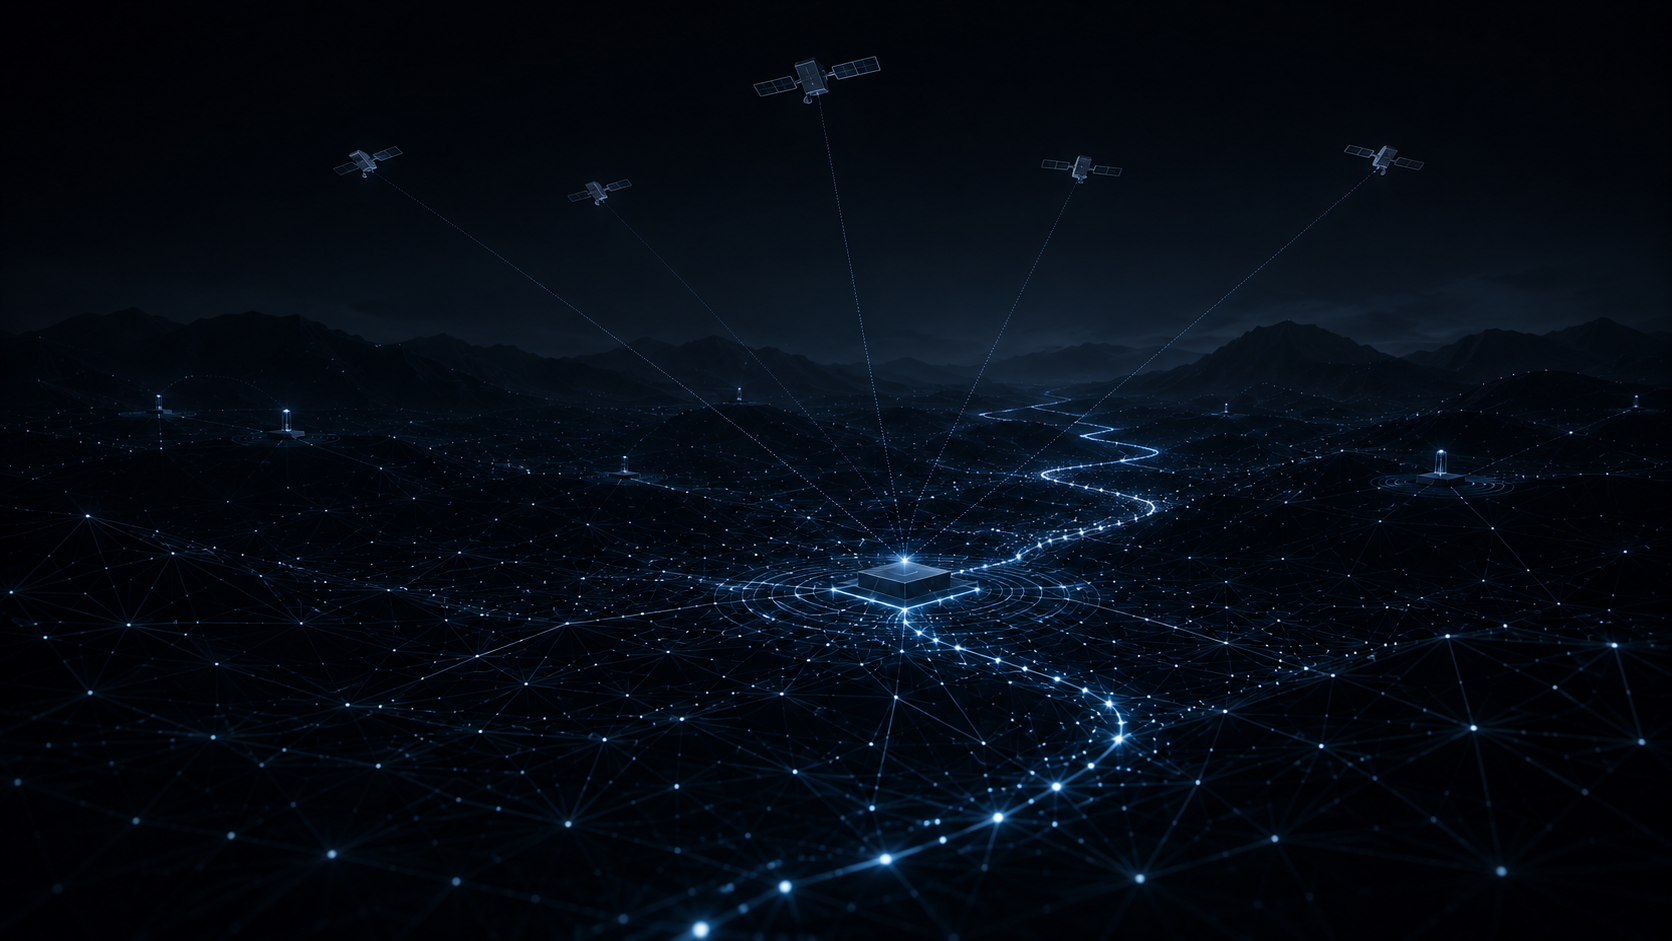
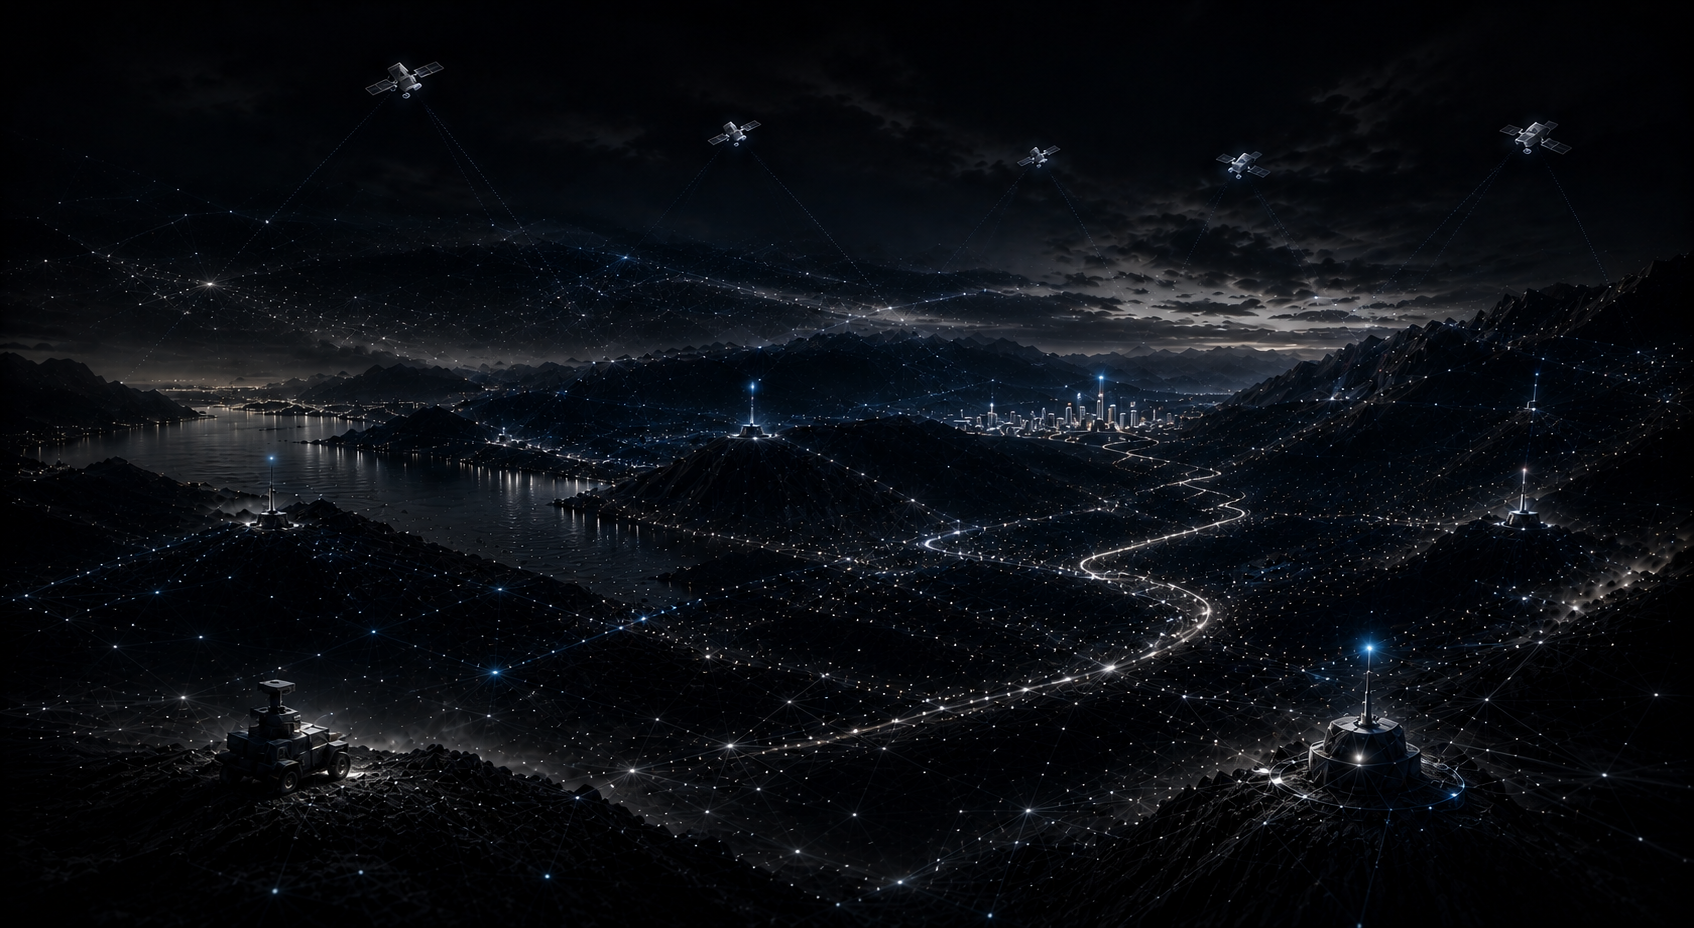
ayrota v2 hero

diff --git a/src/sections/Hero.tsx b/src/sections/Hero.tsx
@@ -1,53 +1,94 @@
-import { Container } from '../components/Container';
-import { usePhase } from '../lib/phaseContext';
 import { useLanguage } from '../lib/LanguageContext';
 
 export function Hero() {
-  const phase = usePhase();
-  const unsettled = phase === 'orientation' || phase === 'drift';
   const { t } = useLanguage();
 
   return (
-    <section id="hero" className="min-h-screen flex items-center relative overflow-hidden">
-      <div
-        className={`absolute inset-0 transition-opacity duration-700 ${
-          unsettled ? 'opacity-100' : 'opacity-0'
-        }`}
-        style={{
-          background:
-            'radial-gradient(80% 60% at 60% 40%, rgba(75,107,136,0.12), transparent 70%)',
-        }}
+    <section
+      id="hero"
+      className="relative min-h-screen overflow-hidden bg-bg"
+    >
+      <img
+        src="/hero-navigation.jpeg"
+        alt="Ayrota autonomous navigation field"
+        className="absolute inset-0 h-full w-full object-cover"
       />
 
-      <Container className="pt-28 relative">
-        <div className="max-w-3xl mx-auto">
-          <div className="text-xs tracking-widest text-muted">
-            {t('sectionHero')}
+      <div className="absolute inset-0 bg-gradient-to-r from-bg via-bg/70 to-bg/10" />
+      <div className="absolute inset-0 bg-gradient-to-t from-bg via-transparent to-bg/40" />
+
+      <div className="relative z-10 min-h-screen">
+        <div className="w-full px-6 md:px-10">
+          <div className="mx-auto max-w-[1440px] pt-[120px]">
+            <div className="max-w-2xl">
+              <div className="mb-6 flex items-center gap-3">
+                <span className="h-px w-8 bg-cyan-300/80" />
+
+                <span className="text-[11px] font-medium tracking-[0.22em] text-fg/70">
+                  {t('homeHeroKicker')}
+                </span>
+              </div>
+
+              <h1 className="text-5xl font-semibold leading-[1.04] tracking-[-0.04em] text-fg md:text-[88px]">
+                {t('homeHeroTitle')}
+              </h1>
+
+              <p className="mt-10 max-w-xl text-[18px] leading-9 text-fg/65">
+                {t('homeHeroLead')}
+              </p>
+            </div>
+
+            <div className="mt-28">
+              <div className="grid grid-cols-2 gap-6 border-t border-fg/10 pt-8 md:grid-cols-5">
+                <Capability
+                  number="01"
+                  label={t('homeCapabilityNavigation')}
+                />
+
+                <Capability
+                  number="02"
+                  label={t('homeCapabilityFusion')}
+                />
+
+                <Capability
+                  number="03"
+                  label={t('homeCapabilityAi')}
+                />
+
+                <Capability
+                  number="04"
+                  label={t('homeCapabilityEmbedded')}
+                />
+
+                <Capability
+                  number="05"
+                  label={t('homeCapabilityAutonomy')}
+                />
+              </div>
+            </div>
           </div>
-
-          <div className="mt-8 text-[11px] tracking-[0.24em] uppercase text-fg/45">
-            {t('heroMetaLine')}
-          </div>
-
-          <h1 className="mt-4 text-3xl md:text-5xl font-medium leading-[1.08]">
-            {t('heroTitleMain')}
-            <br />
-            <span className="text-fg/80">
-              {t('heroTitleSub')}
-            </span>
-          </h1>
-
-          <p className="mt-6 text-sm md:text-base text-fg/85 max-w-2xl leading-relaxed">
-            {t('heroLead')}
-          </p>
-
-          <p className="mt-6 text-sm md:text-base text-muted leading-relaxed max-w-2xl">
-            {t('heroParagraph')}
-          </p>
-
-          <div className="mt-10 h-px bg-line/60 max-w-md" />
         </div>
-      </Container>
+      </div>
     </section>
+  );
+}
+
+function Capability({
+  number,
+  label,
+}: {
+  number: string;
+  label: string;
+}) {
+  return (
+    <div className="border-l border-fg/10 pl-6">
+      <div className="text-[11px] tracking-[0.22em] text-fg/35">
+        {number}
+      </div>
+
+      <div className="mt-4 text-[18px] font-medium leading-tight text-fg/85">
+        {label}
+      </div>
+    </div>
   );
 }

diff --git a/src/i18n/translations.ts b/src/i18n/translations.ts
@@ -2,6 +2,69 @@ export type Language = 'en' | 'tr';
 
 export const translations = {
 
+ /* --------------------
+   NEW HOME / HERO
+-------------------- */
+homeHeroKicker: {
+  en: 'INERTIAL NAVIGATION SYSTEMS',
+  tr: 'ATALETSEL NAVİGASYON SİSTEMLERİ',
+},
+
+homeHeroTitle: {
+  en: 'We develop navigation intelligence for autonomous systems.',
+  tr: 'Otonom sistemler için navigasyon zekası geliştiriyoruz.',
+},
+
+homeHeroLead: {
+  en: 'Ayrota develops AI-assisted solutions that provide position, orientation, and motion estimation for autonomous systems in challenging environments where GNSS is insufficient or unavailable.',
+  tr: 'Ayrota, GNSS’in yetersiz veya kullanılamadığı zorlu ortamlarda otonom sistemlere konum, yönelim ve hareket kestirimi sağlayan yapay zeka destekli çözümler geliştirir.',
+},
+
+homeCapabilityNavigation: {
+  en: 'Inertial Navigation',
+  tr: 'Ataletsel Navigasyon',
+},
+
+homeCapabilityFusion: {
+  en: 'Sensor Fusion',
+  tr: 'Sensör Füzyonu',
+},
+
+homeCapabilityAi: {
+  en: 'AI-assisted Estimation',
+  tr: 'Yapay Zeka Destekli Kestirim',
+},
+
+homeCapabilityEmbedded: {
+  en: 'Embedded Systems',
+  tr: 'Gömülü Sistemler',
+},
+
+homeCapabilityAutonomy: {
+  en: 'Autonomous Platforms',
+  tr: 'Otonom Platformlar',
+},
+
+
+
+
+
+
+
+
+
+
+
+
+
+
+
+
+
+
+
+
+
 /* --------------------
    SECTION LABELS (GLOBAL)
 -------------------- */
